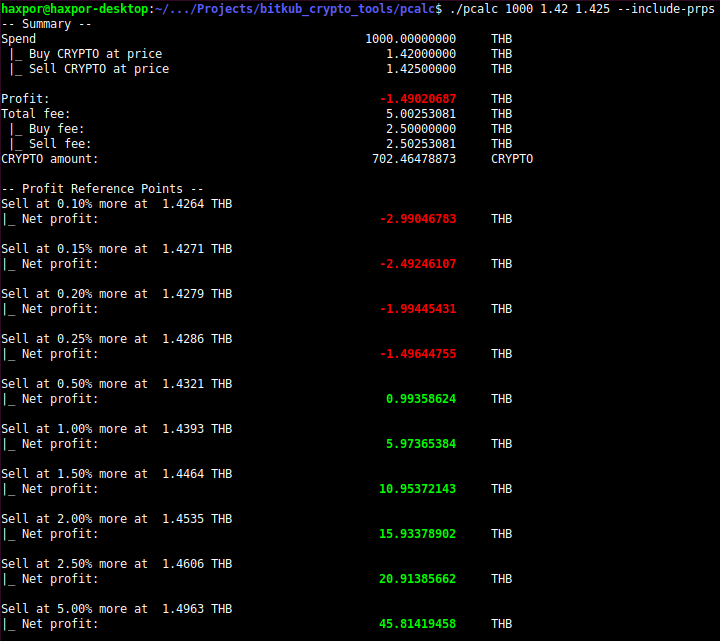
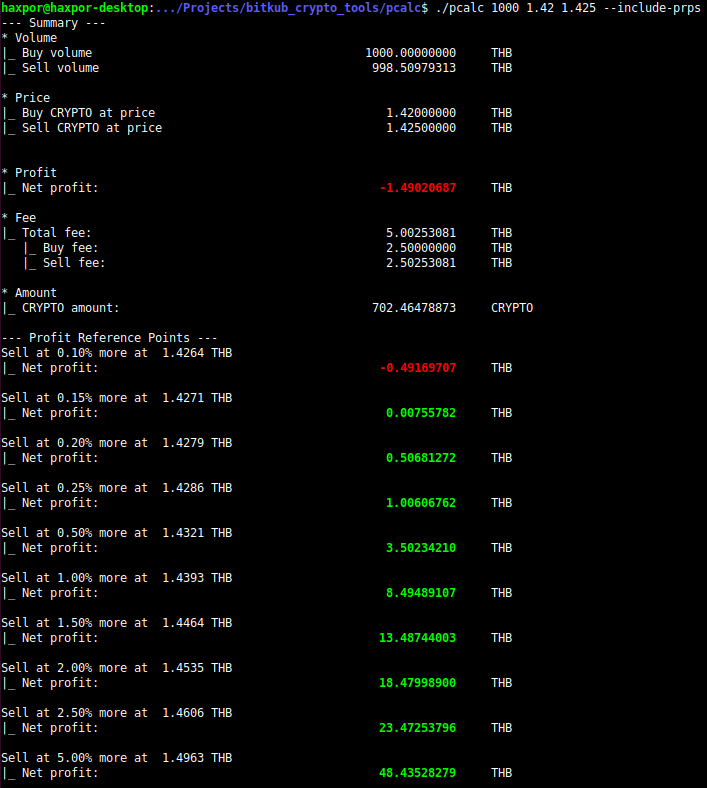
Update README and screenshot for pcalc to reflect changes made in text output's formating

diff --git a/pcalc/README.md b/pcalc/README.md
@@ -24,25 +24,30 @@ Usage: pcalc <amount-to-spend> <CRYPTO-buy-price> <CRYPTO-sell-price>
 
 ## Default
 
-For normal circumstance, by default we just execute the following command
+For normal circumstance, by default we just execute the following command with result as shown
 
 ```
-./pcalc 89000 1763500 1777500
-```
+$ ./pcalc 89000 1763500 1777500
+--- Summary ---
+* Volume
+|_ Buy volume                                      89000.00000000     THB
+|_ Sell volume                                     89258.57739403     THB
 
-the result will be
+* Price
+|_ Buy CRYPTO at price                           1763500.00000000     THB
+|_ Sell CRYPTO at price                          1777500.00000000     THB
 
-```
--- Summary --
-Spend                                              89000.00000000     THB
- |_ Buy CRYPTO at price                          1763500.00000000     THB
- |_ Sell CRYPTO at price                         1777500.00000000     THB
 
-Profit:                                              258.57739403     THB
-Total fee:                                           446.20570775     THB
- |_ Buy fee:                                         222.50000000     THB
- |_ Sell fee:                                        223.70570775     THB
-CRYPTO amount:                                         0.05034165     CRYPTO
+* Profit
+|_ Net profit:                                       258.57739403     THB
+
+* Fee
+|_ Total fee:                                        446.20570775     THB
+   |_ Buy fee:                                       222.50000000     THB
+   |_ Sell fee:                                      223.70570775     THB
+
+* Amount
+|_ CRYPTO amount:                                      0.05034165     CRYPTO
 
 ```
 
@@ -57,66 +62,87 @@ Ex 1.
 
 ```
 $ ./pcalc 10000 1.42 1.43 --include-gross
--- Summary --
-Spend                                              10000.00000000     THB
- |_ Buy CRYPTO at price                                1.42000000     THB
- |_ Sell CRYPTO at price                               1.43000000     THB
+--- Summary ---
+* Volume
+|_ Buy volume                                      10000.00000000     THB
+|_ Sell volume                                     10020.13336268     THB
+|_ Gross sell volume                               10070.42253521     THB
 
-Gross profit:                                         70.42253521     THB
-Profit:                                               20.13336268     THB
-Total fee:                                            50.11311620     THB
- |_ Buy fee:                                          25.00000000     THB
- |_ Sell fee:                                         25.11311620     THB
-Gross CRYPTO amount:                                7042.25352113     CRYPTO
-CRYPTO amount:                                      7024.64788732     CRYPTO
+* Price
+|_ Buy CRYPTO at price                                 1.42000000     THB
+|_ Sell CRYPTO at price                                1.43000000     THB
+
+
+* Profit
+|_ Gross profit:                                      70.42253521     THB
+|_ Net profit:                                        20.13336268     THB
+
+* Fee
+|_ Total fee:                                         50.11311620     THB
+   |_ Buy fee:                                        25.00000000     THB
+   |_ Sell fee:                                       25.11311620     THB
+
+* Amount
+|_ Gross CRYPTO amount:                             7042.25352113     CRYPTO
+|_ CRYPTO amount:                                   7024.64788732     CRYPTO
 
 ```
 
 Ex 2.
 
 ```
-./pcalc 10000 1.42 1.43 --include-prps
--- Summary --
-Spend                                              10000.00000000     THB
- |_ Buy CRYPTO at price                                1.42000000     THB
- |_ Sell CRYPTO at price                               1.43000000     THB
+$ ./pcalc 10000 1.42 1.43 --include-prps
+--- Summary ---
+* Volume
+|_ Buy volume                                      10000.00000000     THB
+|_ Sell volume                                     10020.13336268     THB
 
-Profit:                                               20.13336268     THB
-Total fee:                                            50.11311620     THB
- |_ Buy fee:                                          25.00000000     THB
- |_ Sell fee:                                         25.11311620     THB
-CRYPTO amount:                                      7024.64788732     CRYPTO
+* Price
+|_ Buy CRYPTO at price                                 1.42000000     THB
+|_ Sell CRYPTO at price                                1.43000000     THB
 
--- Profit Reference Points --
+
+* Profit
+|_ Net profit:                                        20.13336268     THB
+
+* Fee
+|_ Total fee:                                         50.11311620     THB
+   |_ Buy fee:                                        25.00000000     THB
+   |_ Sell fee:                                       25.11311620     THB
+
+* Amount
+|_ CRYPTO amount:                                   7024.64788732     CRYPTO
+
+--- Profit Reference Points ---
 Sell at 0.10% more at  1.4314 THB
-|_ Net profit:                                         5.07811230     THB
+|_ Net profit:                                        30.15349604     THB
 
 Sell at 0.15% more at  1.4321 THB
-|_ Net profit:                                        10.07565381     THB
+|_ Net profit:                                        35.16356272     THB
 
 Sell at 0.20% more at  1.4329 THB
-|_ Net profit:                                        15.07319533     THB
+|_ Net profit:                                        40.17362940     THB
 
 Sell at 0.25% more at  1.4336 THB
-|_ Net profit:                                        20.07073684     THB
+|_ Net profit:                                        45.18369608     THB
 
 Sell at 0.50% more at  1.4371 THB
-|_ Net profit:                                        45.05844442     THB
+|_ Net profit:                                        70.23402949     THB
 
 Sell at 1.00% more at  1.4443 THB
-|_ Net profit:                                        95.03385956     THB
+|_ Net profit:                                       120.33469630     THB
 
 Sell at 1.50% more at  1.4514 THB
-|_ Net profit:                                       145.00927471     THB
+|_ Net profit:                                       170.43536312     THB
 
 Sell at 2.00% more at  1.4586 THB
-|_ Net profit:                                       194.98468985     THB
+|_ Net profit:                                       220.53602993     THB
 
 Sell at 2.50% more at  1.4657 THB
-|_ Net profit:                                       244.96010500     THB
+|_ Net profit:                                       270.63669674     THB
 
 Sell at 5.00% more at  1.5015 THB
-|_ Net profit:                                       494.83718073     THB
+|_ Net profit:                                       521.14003081     THB
 
 ```
 
